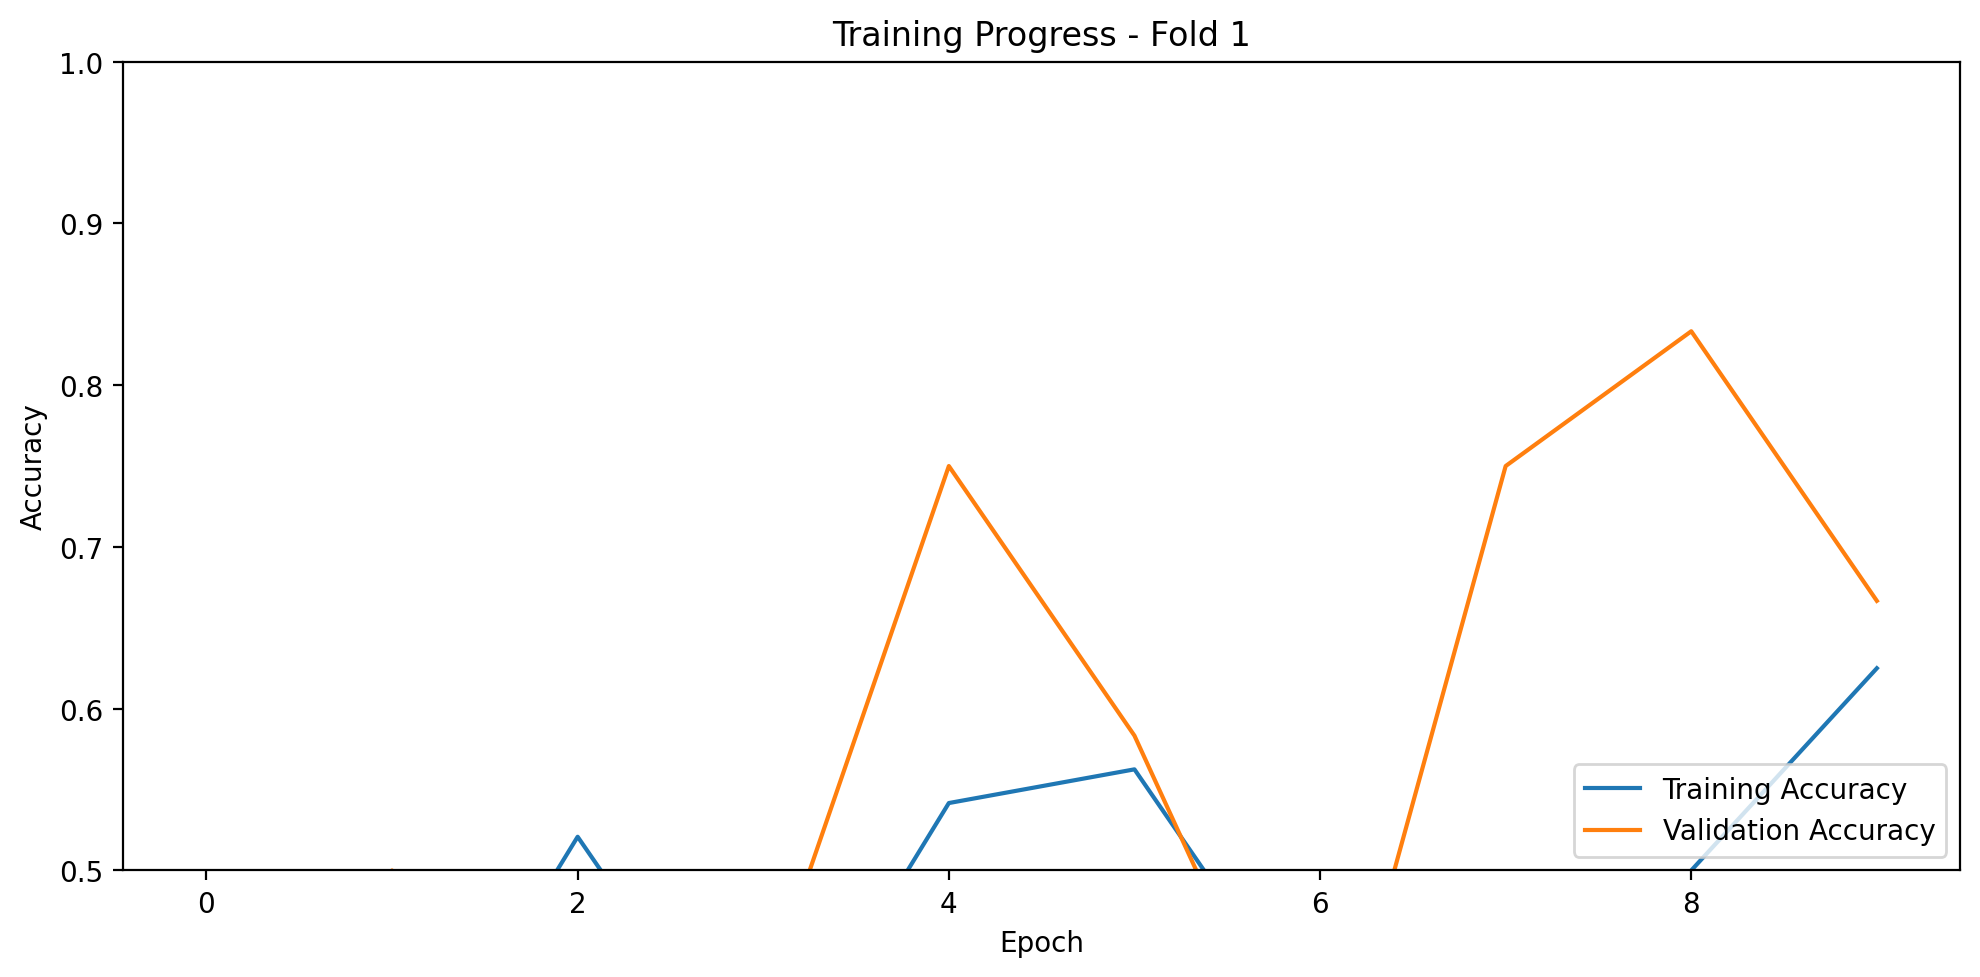
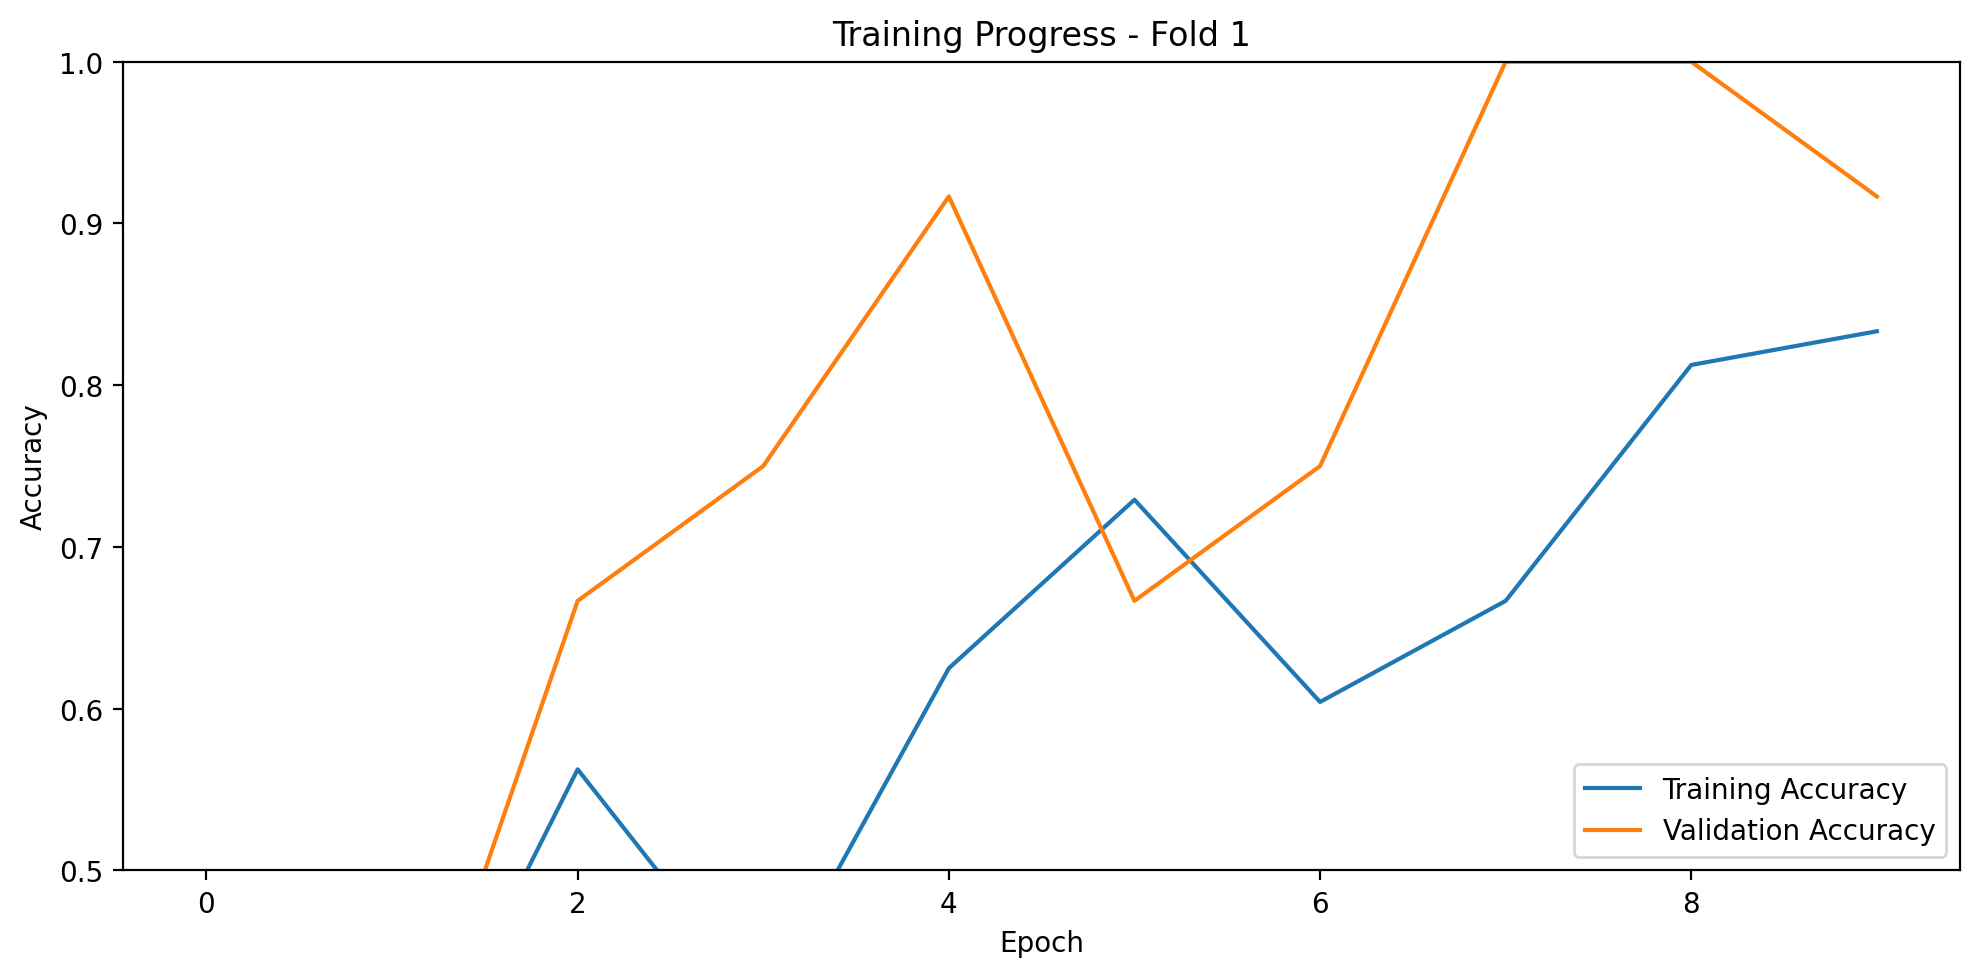
64 filters

diff --git a/src/cnn.py b/src/cnn.py
@@ -11,7 +11,7 @@ import matplotlib.pyplot as plt
 from pathlib import Path
 PROJECT_ROOT = Path(__file__).resolve().parents[1]
 DATA_ROOT = PROJECT_ROOT / "archive-2"   # <— makes ./src/cnn.py robust
-FILTER_SIZE_DEFAULT = 128                 # try 8, 16, 32, 64 ...
+FILTER_SIZE_DEFAULT = 32                 # try 8, 16, 32, 64 ...
 
 # Keras/TensorFlow imports for CNN training with graceful fallback
 # This allows the script to run even if TensorFlow is not installed
@@ -261,19 +261,19 @@ def build_tutorial_cnn(input_shape, num_classes):
     """
     model = Sequential([
         # First convolutional block: Extract basic features
-        Conv2D(32, (3, 3), activation='relu', input_shape=input_shape),
+        Conv2D(64, (3, 3), activation='relu', input_shape=input_shape),
         MaxPool2D((2, 2)),
         
         # Second convolutional block: Extract more complex features
-        Conv2D(32, (3, 3), activation='relu'),
+        Conv2D(64, (3, 3), activation='relu'),
         MaxPool2D((2, 2)),
         
         # Third convolutional block: Extract high-level features
-        Conv2D(32, (3, 3), activation='relu'),
+        Conv2D(64, (3, 3), activation='relu'),
         MaxPool2D((2, 2)),
         
         # Fourth convolutional block: Final feature extraction
-        Conv2D(32, (3, 3), activation='relu'),
+        Conv2D(64, (3, 3), activation='relu'),
         MaxPool2D((2, 2)),
         
         # Classification head
